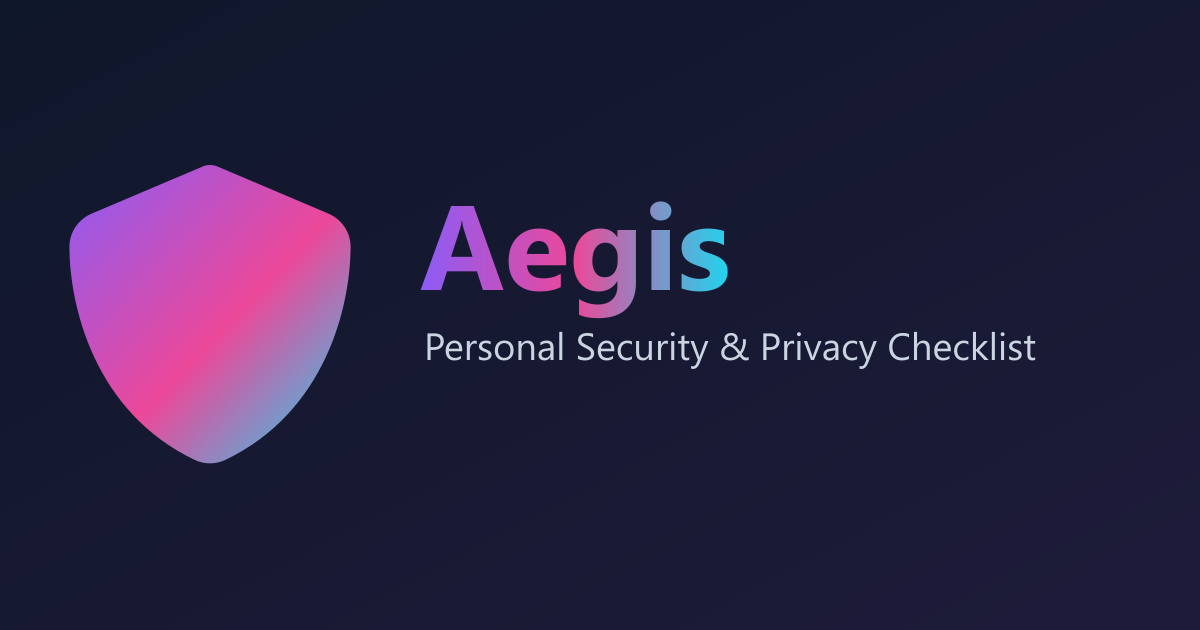
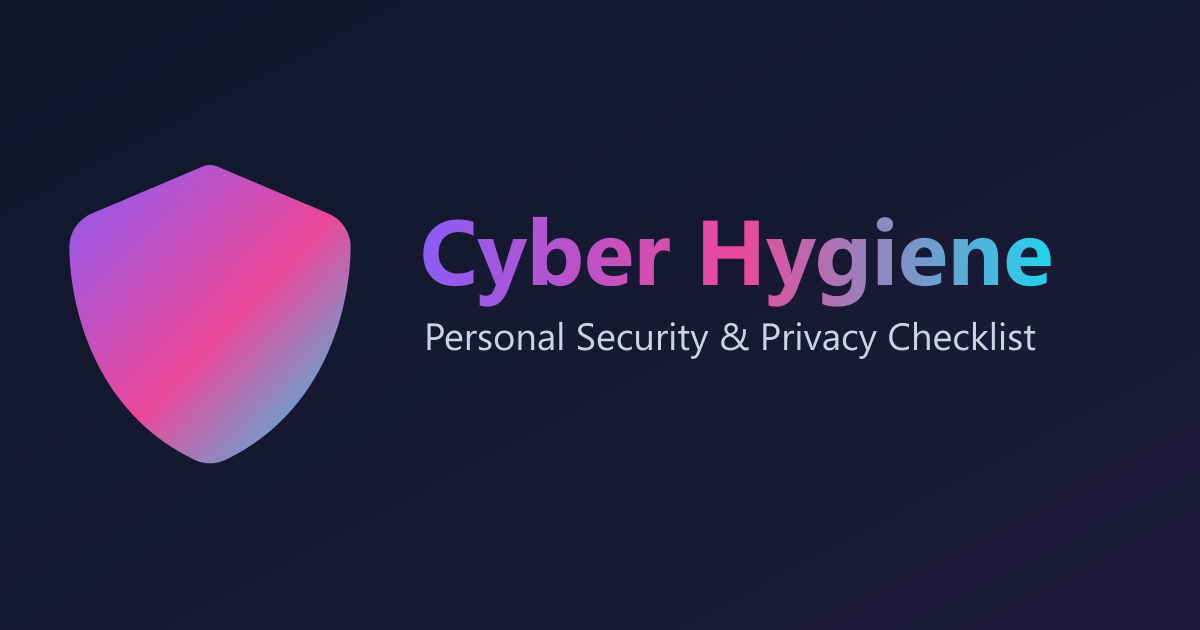
Rename brand from Aegis to Cyber Hygiene
Update site name across nav, hero, head/meta, titles, manifest, README,
about page, and regenerate the social banner.

Changed region(s): [[0.3392, 0.3016, 0.8942, 0.573]]

diff --git a/web/src/components/router-head/router-head.tsx b/web/src/components/router-head/router-head.tsx
@@ -10,8 +10,8 @@ export const RouterHead = component$(() => {
   return (
     <>
       {/* Basics */}
-      <title>{head.title || 'Aegis · Personal Security & Privacy Checklist'}</title>
-      <meta name="description" content="Aegis — a practical, interactive checklist to secure your digital life and protect your privacy." />
+      <title>{head.title || 'Cyber Hygiene · Personal Security & Privacy Checklist'}</title>
+      <meta name="description" content="Cyber Hygiene — a practical, interactive checklist to secure your digital life and protect your privacy." />
 
       {/* Site config */}
       <link rel="canonical" href={loc.url.href} />
@@ -24,14 +24,14 @@ export const RouterHead = component$(() => {
       {/* Open Graph / Facebook */}
       <meta property="og:type" content="website" />
       <meta property="og:url" content={loc.url.href} />
-      <meta property="og:title" content="Aegis · Personal Security & Privacy Checklist" />
+      <meta property="og:title" content="Cyber Hygiene · Personal Security & Privacy Checklist" />
       <meta property="og:description" content="A practical, interactive checklist to secure your digital life and protect your privacy." />
       <meta property="og:image" content={withBase("/banner.png")} />
 
       {/* Twitter */}
       <meta name="twitter:card" content="summary_large_image" />
       <meta name="twitter:url" content={loc.url.href} />
-      <meta property="twitter:title" content="Aegis · Personal Security & Privacy Checklist" />
+      <meta property="twitter:title" content="Cyber Hygiene · Personal Security & Privacy Checklist" />
       <meta name="twitter:description" content="A practical, interactive checklist to secure your digital life and protect your privacy." />
       <meta name="twitter:image" content={withBase("/banner.png")} />
 

diff --git a/web/src/routes/about/index.tsx b/web/src/routes/about/index.tsx
@@ -14,7 +14,7 @@ export default component$(() => {
   return (
     <div class="m-4 md:mx-16">
       <article class="bg-back p-8 mx-auto max-w-[1200px] m-8 rounded-lg shadow-md">
-        <h2 class="text-3xl mb-2">About Aegis</h2>
+        <h2 class="text-3xl mb-2">About Cyber Hygiene</h2>
         {intro.map((paragraph, index) => (
           <p class="mb-2" key={index}>{paragraph}</p>
         ))}
@@ -32,7 +32,7 @@ export default component$(() => {
       <article class="bg-back p-8 mx-auto max-w-[1200px] my-8 rounded-lg shadow-md">
         <h2 class="text-3xl mb-2" id="author">Credits</h2>
         <p class="mb-2">
-          Aegis is curated and maintained by{' '}
+          Cyber Hygiene is curated and maintained by{' '}
           <a href={maintainer.portfolio} class="link link-primary font-semibold">{maintainer.name}</a>.
         </p>
         <p class="text-sm opacity-80 mb-4">{maintainer.role}</p>
@@ -79,11 +79,11 @@ export default component$(() => {
 });
 
 export const head: DocumentHead = {
-  title: "About | Aegis",
+  title: "About | Cyber Hygiene",
   meta: [
     {
       name: "description",
-      content: "About Aegis — a practical checklist to improve your digital security and protect your privacy online.",
+      content: "About Cyber Hygiene — a practical checklist to improve your digital security and protect your privacy online.",
     },
   ],
 };

diff --git a/web/src/components/furniture/nav.tsx b/web/src/components/furniture/nav.tsx
@@ -41,7 +41,7 @@ export default component$(() => {
           </div> 
           <a href={withBase("/")} class="btn btn-ghost text-xl flex capitalize">
             <label for="my-drawer-3" aria-label="open sidebar" class="tooltip tooltip-bottom" data-tip="View all Pages"><Icon class="mr-2" icon="shield" width={28} height={28}  /></label>
-            <h1 class="bg-gradient-to-r from-primary via-secondary to-accent bg-clip-text text-transparent font-extrabold">Aegis</h1>
+            <h1 class="bg-gradient-to-r from-primary via-secondary to-accent bg-clip-text text-transparent font-extrabold whitespace-nowrap">Cyber Hygiene</h1>
           </a>
         </div>
         <div class="flex-none hidden md:flex">
@@ -100,7 +100,7 @@ export default component$(() => {
         <ul class="rounded-box menu p-4 w-80 min-h-full bg-base-200">
           <h2 class="flex text-primary">
           <Icon class="mr-2" icon="shield" width={16} height={16}  />
-            Aegis
+            Cyber Hygiene
           </h2>
           <li><a href={withBase("/")}><Icon class="mr-2" icon="homepage" width={16} height={16}  />Home</a></li>
           <li><a href="https://github.com/subashjaganathan/security-checklist">

diff --git a/web/src/routes/about/about-content.ts b/web/src/routes/about/about-content.ts
@@ -1,5 +1,5 @@
 export const intro = [
-  `Aegis is a practical, interactive checklist to help you improve your digital security and protect your privacy online.`,
+  `Cyber Hygiene is a practical, interactive checklist to help you improve your digital security and protect your privacy online.`,
   `
   It's organised into focused sections — from passwords and devices to networks, social media, and AI —
   so you can work through the steps that matter most to you, track your progress, and come back any time.
@@ -17,7 +17,7 @@ export const contributing = [
 export const maintainer = {
   name: 'Subash Jaganathan',
   role: 'Senior Cyber Security Consultant — DFIR, SOC & Threat Hunting',
-  blurb: `I help organisations detect, investigate, and respond to cyber threats. Aegis is my curated, `
+  blurb: `I help organisations detect, investigate, and respond to cyber threats. Cyber Hygiene is my curated, `
     + `freely available checklist to help everyone raise their personal security baseline.`,
   portfolio: 'https://subashjaganathan.github.io',
   github: 'https://github.com/subashjaganathan',

diff --git a/web/src/components/furniture/hero.tsx b/web/src/components/furniture/hero.tsx
@@ -7,7 +7,7 @@ export default component$(() => {
     <div class="hero mb-8 mx-auto xl:max-w-7xl max-w-6xl w-full xl:px-10">
       <div class="hero-content text-center bg-front shadow-sm lg:rounded-xl w-full">
         <div class="max-w-2xl flex flex-col place-items-center">
-          <p class="uppercase tracking-widest text-sm opacity-70">Aegis</p>
+          <p class="uppercase tracking-widest text-sm opacity-70">Cyber Hygiene</p>
           <h1 class="text-5xl font-extrabold bg-gradient-to-r from-primary via-secondary to-accent bg-clip-text text-transparent py-1">Personal Security Checklist</h1>
           <p class="subtitle pb-6">Your guide to securing your digital life and protecting your privacy</p>
           <Icon class="mb-4 text-primary" icon="shield" width={120} height={120}  />

diff --git a/web/src/routes/index.tsx b/web/src/routes/index.tsx
@@ -24,7 +24,7 @@ export default component$(() => {
 });
 
 export const head: DocumentHead = {
-  title: "Aegis · Personal Security & Privacy Checklist",
+  title: "Cyber Hygiene · Personal Security & Privacy Checklist",
   meta: [
     {
       name: "description",

diff --git a/web/src/routes/article/[slug]/index.tsx b/web/src/routes/article/[slug]/index.tsx
@@ -120,7 +120,7 @@ export const onStaticGenerate: StaticGenerateHandler = async () => {
 };
 
 export const head: DocumentHead = {
-  title: "Article | Aegis",
+  title: "Article | Cyber Hygiene",
   meta: [
     {
       name: "description",

diff --git a/README.md b/README.md
@@ -1,4 +1,4 @@
-# Aegis — Personal Security & Privacy Checklist
+# Cyber Hygiene — Personal Security & Privacy Checklist
 
 A comprehensive, interactive checklist to help you secure your digital life — covering authentication, web browsing, email, messaging, networks, devices, AI & privacy, and more.
 
